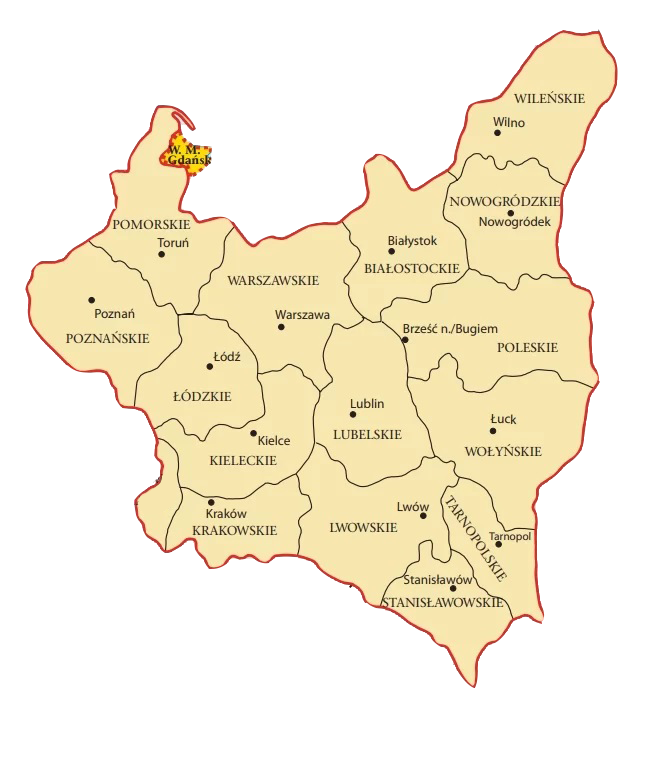
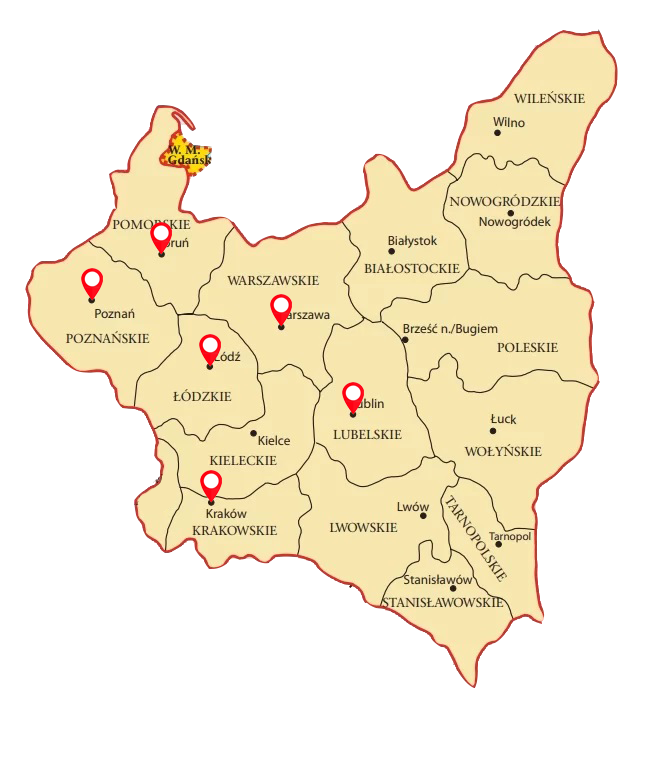
.

diff --git a/podstrony/architekturaPl.html b/podstrony/architekturaPl.html
@@ -1,0 +1,61 @@
+<!DOCTYPE html>
+<html lang="pl">
+    <head>
+        <meta charset="UTF-8">
+        <meta http-equiv="X-UA-Compatible" content="IE=edge">
+        <meta name="viewport" content="width=device-width, initial-scale=1.0">
+        <link rel="stylesheet" href="../styles/architekturaStyle.css">
+        <link rel="preconnect" href="https://fonts.gstatic.com" crossorigin>
+        <link href="https://fonts.googleapis.com/css2?family=Roboto+Mono&display=swap" rel="stylesheet">
+        <title>Architektura</title>
+    </head>
+    <body>
+        <header>
+            <a href="../index.html" class="btn">Strona główna</a>
+            <a href="#" class="btn">Architektura</a>
+            <a href="#" class="btn">Sztuka</a>
+        </header>
+        <h1>Najedź na miasto aby dowiedzieć się więcej</h1>
+        <div class="content">
+            <div class="map">
+                <img src="../images/pl1.png" alt="">
+                <div class="city krakow">
+                    <img src="../images/pinezka.png" alt="">
+                    <div class="txt">
+                        
+                    </div>
+                </div>
+                <div class="city lublin">
+                    <img src="../images/pinezka.png" alt="">
+                    <div class="txt">
+                        
+                    </div>
+                </div>
+                <div class="city lodz">
+                    <img src="../images/pinezka.png" alt="">
+                    <div class="txt">
+                        
+                    </div>
+                </div>
+                <div class="city warszawa">
+                    <img src="../images/pinezka.png" alt="">
+                    <div class="txt">
+                        
+                    </div>
+                </div>
+                <div class="city poznan">
+                    <img src="../images/pinezka.png" alt="">
+                    <div class="txt">
+                        
+                    </div>
+                </div>
+                <div class="city torun">
+                    <img src="../images/pinezka.png" alt="">
+                    <div class="txt">
+                        
+                    </div>
+                </div>
+            </div>
+        </div>
+    </body>
+</html>

diff --git a/styles/architekturaStyle.css b/styles/architekturaStyle.css
@@ -1,0 +1,121 @@
+*{
+    margin: 0;
+    padding: 0;
+    font-family: 'Roboto Mono', monospace;
+}
+header{
+    width: 100%;
+    box-shadow: 0 0.5px 20px rgba(0, 0, 0, 0.7);
+    height: 100px;
+    display: flex;
+    align-items: center;
+    justify-content: center;
+    font-size: 25px;
+    position: sticky;
+    top: 0;
+    z-index: 5;
+    background-color: white;
+
+}
+
+header a{
+    display: inline-block;
+    padding: 15px;
+    position: relative;
+    margin: 10px;
+}
+
+a{
+    color: black;
+    text-decoration: none;
+}
+
+
+  
+header a::after {
+    content: '';
+    position: absolute;
+    width: 100%;
+    transform: scaleX(0);
+    height: 2px;
+    bottom: 0;
+    left: 0;
+    background-color: black;
+    transform-origin: bottom right;
+    transition: transform 0.25s ease-out;
+}
+  
+header a:hover::after {
+    transform: scaleX(1);
+    transform-origin: bottom left;
+}
+.content{
+    display: flex;
+    justify-content: center;
+    
+}
+
+.map{
+    height: 774px;
+    position: relative;
+}
+
+.city{
+    width: 27px;
+    height: 34px;
+    position: absolute;
+    cursor: pointer;
+
+
+}
+.txt{
+    opacity: 0;
+}
+.city:hover div{
+    opacity: 1;
+    transition: opacity 1s;
+}
+.city.krakow{
+    top: 472px;
+    left: 197px;
+}
+
+.city.lublin{
+    top: 384px;
+    left: 339px;
+}
+
+
+.city.lodz{
+    top: 336px;
+    left: 196px;
+}
+
+.city.warszawa{
+    top: 297px;
+    left: 267px;
+}
+
+.city.poznan{
+    top: 269px;
+    left: 78px;
+}
+
+.city.torun{
+    top: 224px;
+    left: 147px;
+}
+h1{
+    padding-top: 30px;
+    text-align: center;
+    animation: opacityAni 1.5s ease-out;
+}
+
+@keyframes opacityAni {
+    0%{
+        opacity: 0;
+    }
+    100%{
+        opacity: 1;
+    }
+}

diff --git a/index.html b/index.html
@@ -1,10 +1,10 @@
 <!DOCTYPE html>
-<html lang="en">
+<html lang="pl">
     <head>
         <meta charset="UTF-8">
         <meta http-equiv="X-UA-Compatible" content="IE=edge">
         <meta name="viewport" content="width=device-width, initial-scale=1.0">
-        <link rel="stylesheet" href="/styles/style.css">
+        <link rel="stylesheet" href="styles/style.css">
         <link rel="preconnect" href="https://fonts.googleapis.com">
     <link rel="preconnect" href="https://fonts.gstatic.com" crossorigin>
     <link href="https://fonts.googleapis.com/css2?family=Roboto+Mono&display=swap" rel="stylesheet">
@@ -13,11 +13,11 @@
     <body>
         <header>
             <a href="#" class="btn">Strona główna</a>
-            <a href="#" class="btn">Architektura</a>
+            <a href="podstrony/architekturaPl.html" class="btn">Architektura</a>
             <a href="#" class="btn">Sztuka</a>
         </header>
         <div class="content">
-            <a href="#" class="img1">
+            <a href="podstrony/architekturaPl.html" class="img1">
                 
                     <img src="images/wwa.jpg" alt="">
                     <p>Architektura</p>
